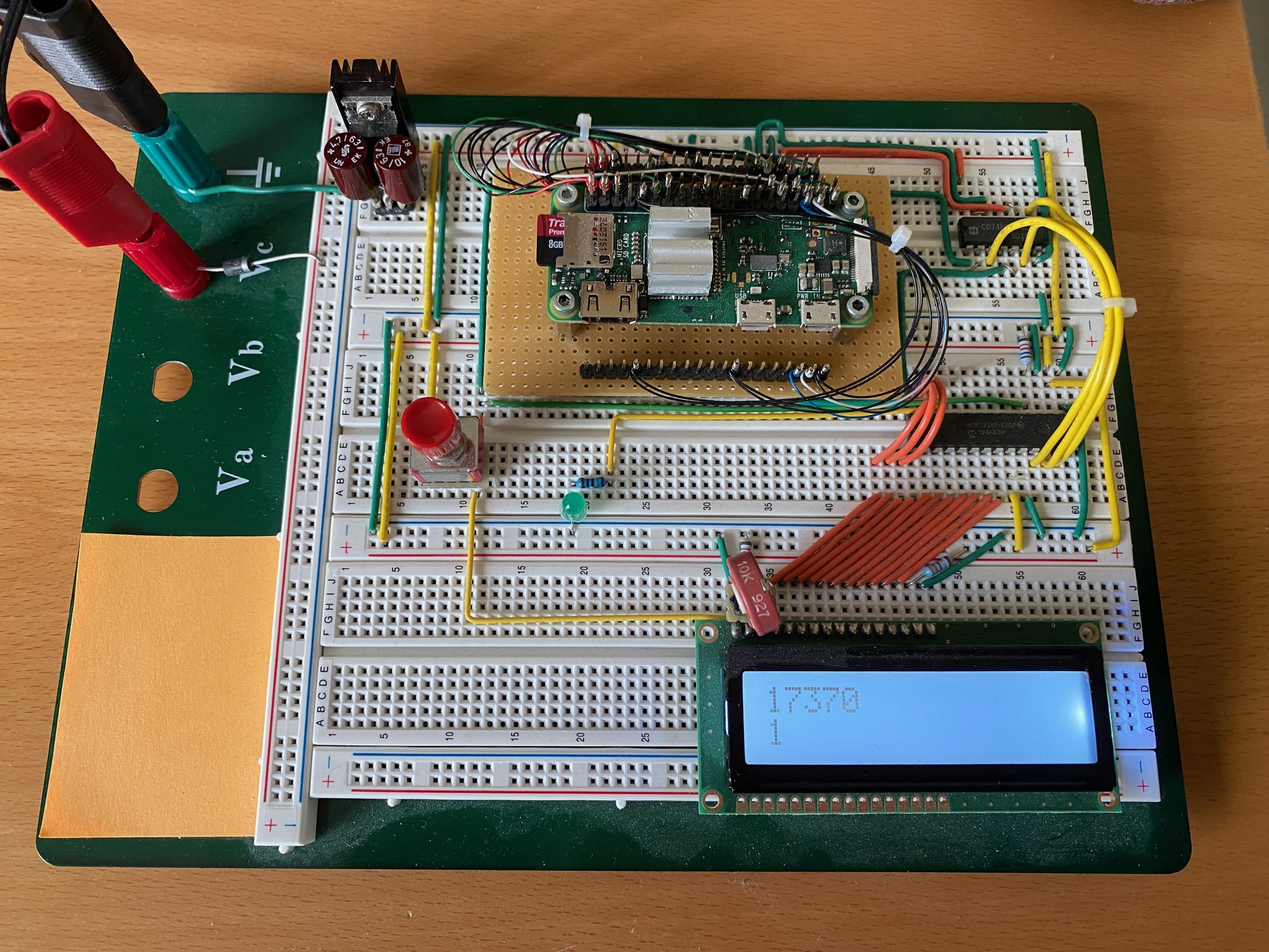
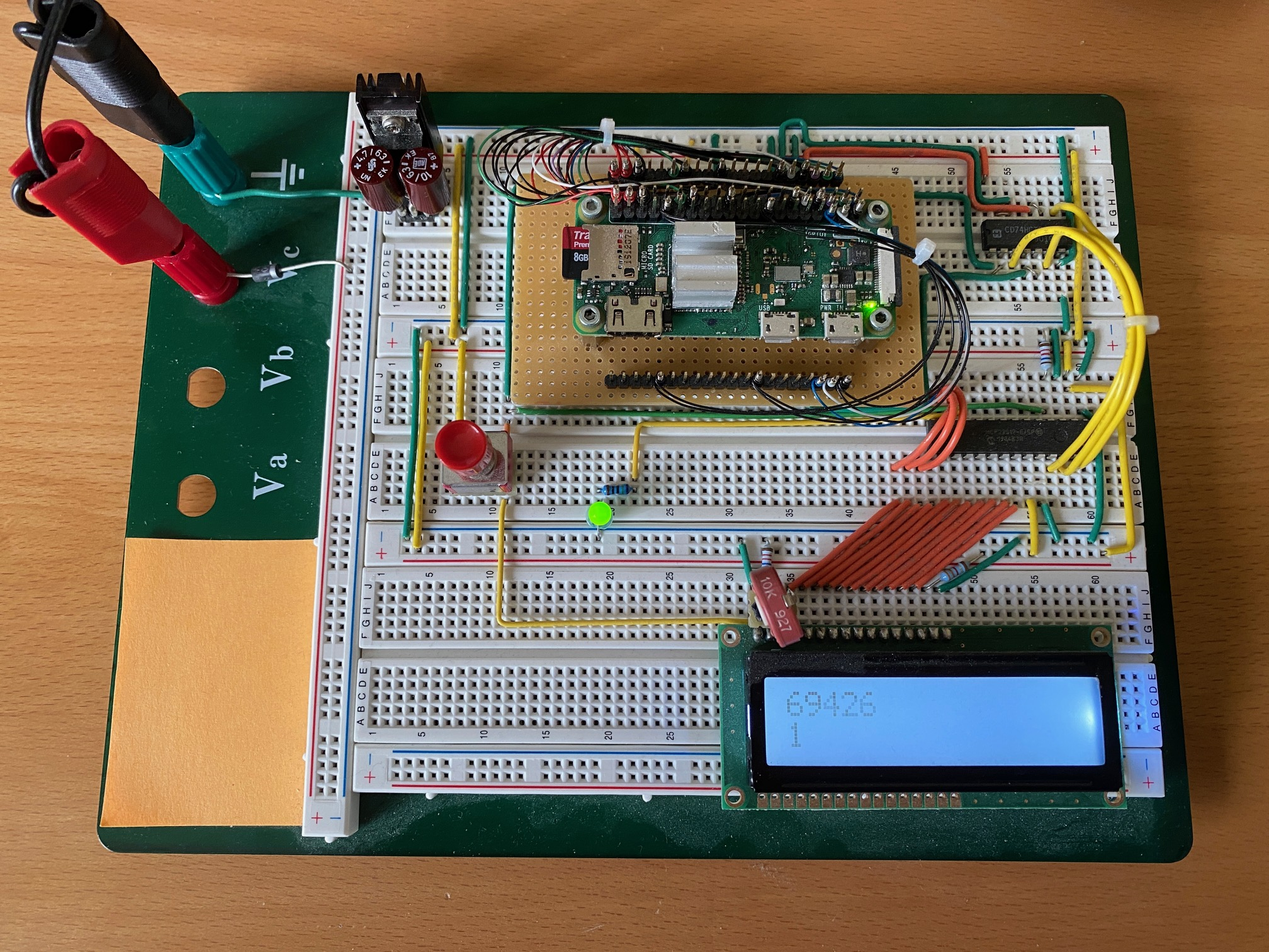
Update docs and image

diff --git a/README.md b/README.md
@@ -51,7 +51,7 @@ compiler. The default optimization setting is `-O2`.
 
 The hardware setup is pictured in the image below.
 In this image, the target system has already completed
-one pi-spigot calculation and has begun a second one
-back-to-back.
+one pi-spigot calculation and is well underway on its
+second one back-to-back.
 
 ![](./images/Osek_pi_spigot_metal.jpg)
